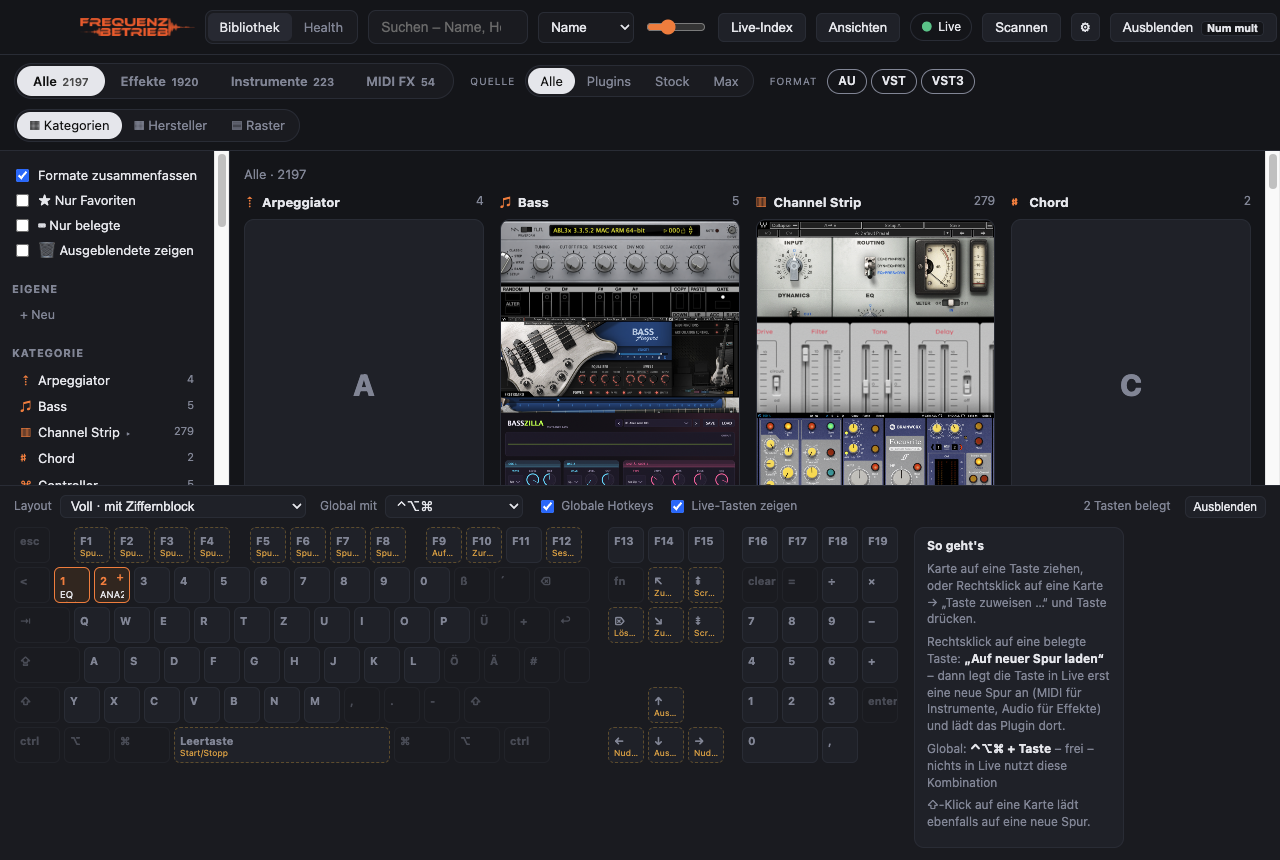
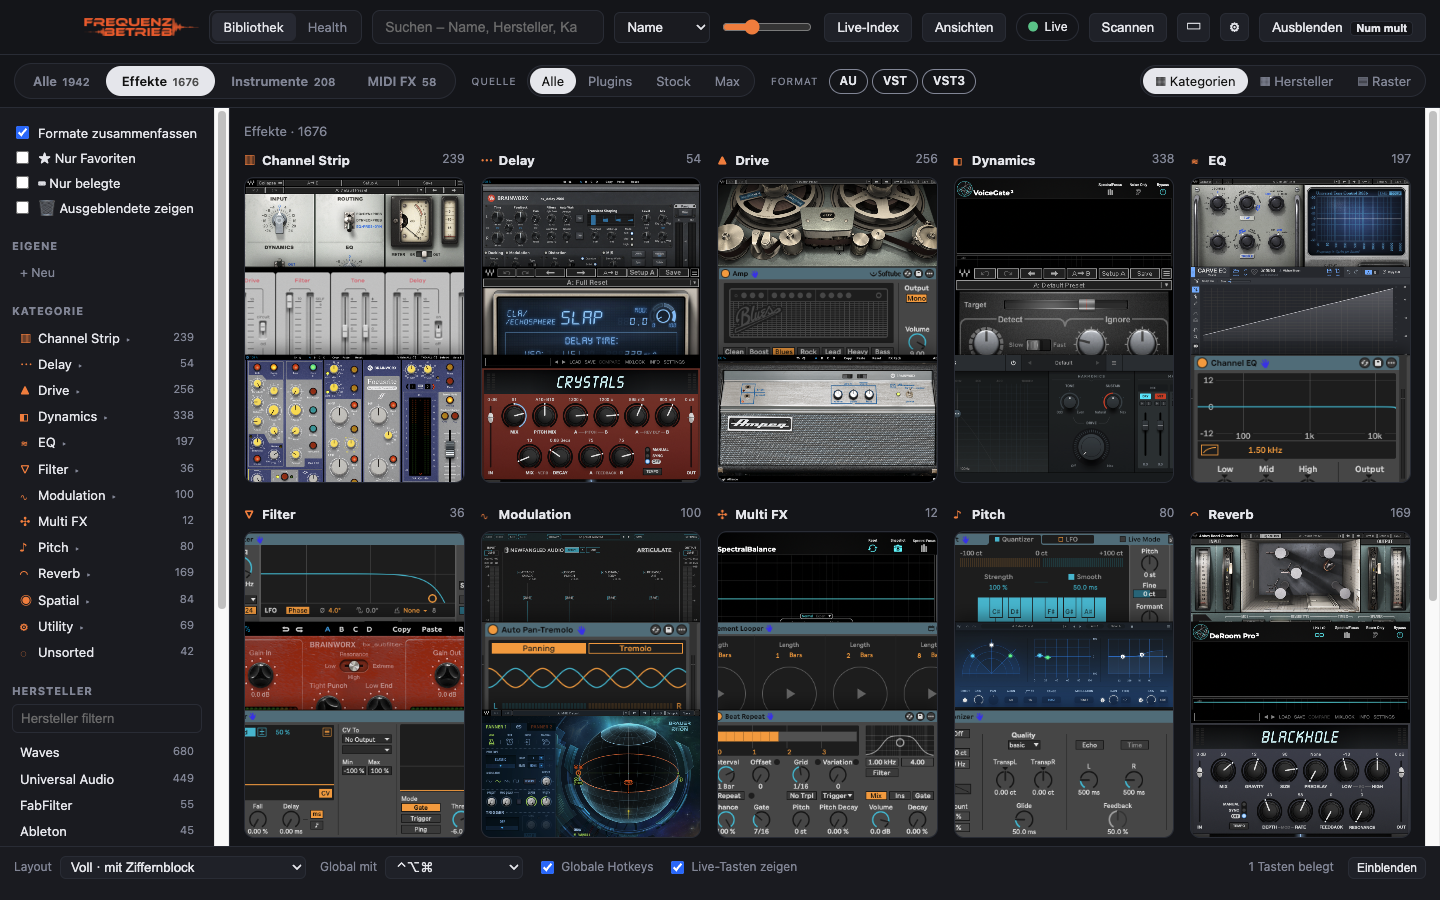
Version 0.2.9: Herstellernamen zusammenführen, neuer Screenshot, WordPress-Beitrag
- Schreibweisen desselben Herstellers zusammengeführt ("IK Multimedia" = "Ikmultimedia",
  "Uaudio" → "Universal Audio", "WavesAudio" → "Waves"); Formate eines Plugins landen
  dadurch auf einer Kachel
- neuer Screenshot (Effekte, Kategorien-Ansicht)
- Beitrag für frequenzbetrieb.de auf Deutsch und Englisch (docs/wordpress)

diff --git a/docs/wordpress/beitrag-de.html b/docs/wordpress/beitrag-de.html
@@ -1,0 +1,80 @@
+<!-- Titel: FREQUENZBETRIEB PLUGIN ORGANIZER – Schluss mit der Plugin-Suche -->
+<!-- Kategorie-Vorschlag: Software / Tools · Tags: Ableton Live, Plugins, VST, Open Source, Musikproduktion -->
+
+<p><strong>Kennst du das? Mitten im Track, die Idee ist da – und du scrollst durch eine Liste mit 2.000 Plugin-Namen, von denen du die Hälfte nicht mehr zuordnen kannst. Genau dafür haben wir den FREQUENZBETRIEB Plugin Organizer gebaut: ein kostenloses Tool, das alle deine Plugins mit echtem Bild zeigt und sie per Klick oder Taste direkt in Ableton Live lädt.</strong></p>
+
+<figure class="wp-block-image size-large"><img src="https://raw.githubusercontent.com/Frequenzbetrieb/plugin-organizer/main/docs/screenshot.png" alt="Der FREQUENZBETRIEB Plugin Organizer mit Kategorien, Vorschaubildern und Tasten-Mapping"/></figure>
+
+<h2>Was der Plugin Organizer macht</h2>
+
+<p>Der Plugin Organizer läuft neben Live, nicht in Live. Er ist kein Plugin, sitzt also nicht im Signalweg und kostet keine CPU in deinem Projekt. Beim ersten Start sucht er alles zusammen, was auf deinem Mac liegt: AU, VST, VST3, AAX und CLAP, dazu Lives eigene Stock-Devices und deine Max-for-Live-Devices aus User Library und Packs.</p>
+
+<h3>Du siehst, was du lädst</h3>
+
+<p>Statt Namen bekommst du Bilder. Der Organizer öffnet jedes Plugin unsichtbar im Hintergrund und fotografiert seine Oberfläche. Für Stock- und Max-Devices geht er direkt in Live: laden, Foto, wieder rückgängig machen. Dein Set bleibt dabei sauber. Am Ende hat fast jedes Plugin eine Kachel, an der du es auf einen Blick erkennst.</p>
+
+<h3>Ordnung, ohne dass du aufräumen musst</h3>
+
+<ul>
+<li><strong>Automatische Kategorien</strong> mit Unterkategorien: Dynamics → Compressor, Limiter, De-Esser, Gate … EQ, Reverb, Delay, Drive, Synth, Drums und so weiter.</li>
+<li><strong>Effekte, Instrumente, MIDI FX</strong> sauber getrennt – und wo die Automatik danebenliegt, korrigierst du es mit einem Rechtsklick.</li>
+<li><strong>Hersteller-Ansicht</strong>, Favoriten und <strong>eigene Sammlungen</strong> mit Farben – zum Beispiel „Mastering“, „Schranz-Leads“ oder „Live-Set“.</li>
+<li><strong>Doppelte Formate</strong> (AU, VST, VST3 vom selben Plugin) werden zu einer Kachel zusammengefasst.</li>
+</ul>
+
+<h3>Ein Klick, und es liegt auf der Spur</h3>
+
+<p>Klick auf eine Kachel – und das Plugin landet auf der ausgewählten Spur in Ableton Live. Mit gedrückter Umschalttaste legt der Organizer vorher eine neue Spur an: MIDI für Instrumente, Audio für Effekte. Er sucht dabei genau das richtige Gerät heraus, auch wenn Live das Plugin unter einem anderen Namen führt.</p>
+
+<h3>Deine Plugins auf Tasten</h3>
+
+<p>Zieh ein Plugin auf eine Taste der Bildschirmtastatur – mit F-Tasten, Ziffernblock und allem, was dazugehört. Danach reicht in Live ⌃⌥⌘ plus Taste, und das Plugin ist da. Wer will, schaltet die Tasten so, dass sie ganz ohne Zusatztaste funktionieren, solange Live vorne ist. Tasten, die Live selbst belegt, sind markiert, damit du nichts Wichtiges überschreibst. Und pro Taste stellst du ein, ob das Plugin auf die aktuelle oder auf eine neue Spur soll.</p>
+
+<h3>Drei Ansichten für jeden Workflow</h3>
+
+<ul>
+<li><strong>Vollbild</strong> – die ganze Bibliothek mit allen Filtern.</li>
+<li><strong>Sidecar</strong> – eine schmale Leiste am Bildschirmrand direkt neben Live, Kategorien als Bildstreifen.</li>
+<li><strong>Mini</strong> – ein kleines Suchfenster: tippen, Pfeiltaste, Enter, fertig.</li>
+</ul>
+
+<p>Eine frei wählbare Taste blendet den Organizer aus und holt ihn wieder nach vorne. Auf Wunsch bleibt er immer im Vordergrund oder verschwindet automatisch, sobald ein Plugin geladen ist.</p>
+
+<h3>Library Health: Was frisst deinen Speicher?</h3>
+
+<p>Der Health-Bereich zeigt dir, wie viel Platz deine Plugins belegen und wie viel du zurückholen kannst: Plugins, die nur noch mit Rosetta laufen, VST2-Kopien von Plugins, die du längst als VST3 hast, AAX-Dateien ohne Pro Tools und Plugins, die du nie benutzt. Er liest sogar deine Live-Sets und sagt dir, welche Plugins darin auf diesem Rechner fehlen.</p>
+
+<h2>Download</h2>
+
+<p><strong>Plugin Organizer für macOS (Apple Silicon &amp; Intel):</strong><br>
+<a href="https://github.com/Frequenzbetrieb/plugin-organizer/releases/latest/download/Frequenzbetrieb-Plugin-Organizer-macOS-universal.dmg">→ Jetzt herunterladen (DMG)</a></p>
+
+<p>Die Windows-Version ist in Arbeit und folgt später.</p>
+
+<h3>Systemanforderungen</h3>
+
+<ul>
+<li>macOS 13 Ventura oder neuer, Apple Silicon oder Intel</li>
+<li>Ableton Live 12 zum Laden der Plugins (Bibliothek, Sortierung und Health funktionieren auch ohne Live)</li>
+</ul>
+
+<h3>Installation</h3>
+
+<ol>
+<li>DMG öffnen und den Plugin Organizer in den Ordner „Programme“ ziehen.</li>
+<li>Die App ist (noch) nicht bei Apple signiert. Öffne deshalb einmalig das Terminal und gib ein:<br>
+<code>xattr -dr com.apple.quarantine "/Applications/Frequenzbetrieb Plugin Organizer.app"</code></li>
+<li>App starten. macOS fragt nach <strong>Bedienungshilfen</strong> (zum Laden in Live) und – nur für Fotos direkt aus Live – nach <strong>Bildschirmaufnahme</strong>. Beides in den Systemeinstellungen unter „Datenschutz &amp; Sicherheit“ erlauben.</li>
+<li>Oben auf „Ansichten“ klicken – der Organizer fotografiert jetzt deine Plugins. Für Stock- und Max-Devices: Live mit leerem Set öffnen und „Live-Index“ starten.</li>
+</ol>
+
+<h2>Kostenlos und Open Source</h2>
+
+<p>Der Plugin Organizer kostet nichts und bleibt kostenlos. Der komplette Quellcode liegt offen auf GitHub unter der AGPL-3.0 – du kannst reinschauen, mitbauen, Fehler melden oder Ideen einbringen:<br>
+<a href="https://github.com/Frequenzbetrieb/plugin-organizer">github.com/Frequenzbetrieb/plugin-organizer</a></p>
+
+<p>Wenn dir das Tool Zeit spart und du unsere Vereinsarbeit unterstützen willst, freuen wir uns über eine <a href="https://www.frequenzbetrieb.de/spenden/">Spende</a>. Jeder Euro fließt in Projekte wie dieses.</p>
+
+<p><em>Ableton und Ableton Live sind Marken der Ableton AG, VST ist eine eingetragene Marke der Steinberg Media Technologies GmbH. Der Plugin Organizer ist ein unabhängiges Projekt und steht in keiner Verbindung zu Ableton oder Steinberg.</em></p>
+
+<p><em>Hinweis: Dieser Beitrag und die Software wurden mit Unterstützung von KI erstellt (Kennzeichnung gemäß EU AI Act, Art. 50).</em></p>

diff --git a/docs/wordpress/beitrag-en.html b/docs/wordpress/beitrag-en.html
@@ -1,0 +1,82 @@
+<!-- Title: FREQUENZBETRIEB PLUGIN ORGANIZER – No more hunting for plugins -->
+<!-- Suggested category: Software / Tools · Tags: Ableton Live, Plugins, VST, Open Source, Music Production -->
+
+<p><strong>Sound familiar? You're deep in a track, the idea is right there – and you're scrolling through 2,000 plugin names, half of which you can't place anymore. That's exactly why we built the FREQUENZBETRIEB Plugin Organizer: a free tool that shows all your plugins with a real picture and loads them straight into Ableton Live with a click or a key.</strong></p>
+
+<figure class="wp-block-image size-large"><img src="https://raw.githubusercontent.com/Frequenzbetrieb/plugin-organizer/main/docs/screenshot.png" alt="The FREQUENZBETRIEB Plugin Organizer with categories, preview images and key mapping"/></figure>
+
+<h2>What the Plugin Organizer does</h2>
+
+<p>The Plugin Organizer runs next to Live, not inside it. It isn't a plugin, so it never sits in your signal path and doesn't cost your project any CPU. On first launch it gathers everything on your Mac: AU, VST, VST3, AAX and CLAP, plus Live's own stock devices and your Max for Live devices from the User Library and Packs.</p>
+
+<h3>See what you load</h3>
+
+<p>Instead of names you get pictures. The Organizer opens every plugin invisibly in the background and takes a snapshot of its interface. For stock and Max devices it goes straight into Live: load, snapshot, undo. Your set stays clean. In the end almost every plugin has a tile you recognise at a glance.</p>
+
+<h3>Order without tidying up</h3>
+
+<ul>
+<li><strong>Automatic categories</strong> with subcategories: Dynamics → Compressor, Limiter, De-esser, Gate … EQ, Reverb, Delay, Drive, Synth, Drums and more.</li>
+<li><strong>Effects, instruments and MIDI FX</strong> neatly separated – and where the automatic sorting gets it wrong, one right-click fixes it.</li>
+<li><strong>Vendor view</strong>, favourites and <strong>your own collections</strong> with colours – say "Mastering", "Schranz Leads" or "Live Set".</li>
+<li><strong>Duplicate formats</strong> (AU, VST, VST3 of the same plugin) are merged into one tile.</li>
+</ul>
+
+<h3>One click and it's on the track</h3>
+
+<p>Click a tile – and the plugin lands on the selected track in Ableton Live. Hold Shift and the Organizer creates a new track first: MIDI for instruments, audio for effects. It picks exactly the right device, even when Live lists the plugin under a different name.</p>
+
+<h3>Your plugins on keys</h3>
+
+<p>Drag a plugin onto a key of the on-screen keyboard – F-keys, numpad and all. From then on ⌃⌥⌘ plus that key in Live brings it up. If you like, switch the keys to work without any modifier while Live is in front. Keys that Live uses itself are marked, so you don't overwrite anything important. And for each key you decide whether the plugin goes onto the current track or a new one.</p>
+
+<h3>Three views for every workflow</h3>
+
+<ul>
+<li><strong>Full window</strong> – the whole library with every filter.</li>
+<li><strong>Sidecar</strong> – a slim strip at the edge of the screen right next to Live, categories as picture rows.</li>
+<li><strong>Mini</strong> – a small search window: type, arrow key, Enter, done.</li>
+</ul>
+
+<p>A key of your choice hides the Organizer and brings it back. If you want, it stays on top all the time or disappears as soon as a plugin is loaded.</p>
+
+<h3>Library Health: what's eating your disk?</h3>
+
+<p>The Health view shows how much space your plugins take and how much you can get back: plugins that only run under Rosetta, VST2 copies of plugins you already have as VST3, AAX files without Pro Tools, and plugins you never use. It even reads your Live sets and tells you which plugins in them are missing on this machine.</p>
+
+<h2>Download</h2>
+
+<p><strong>Plugin Organizer for macOS (Apple Silicon &amp; Intel):</strong><br>
+<a href="https://github.com/Frequenzbetrieb/plugin-organizer/releases/latest/download/Frequenzbetrieb-Plugin-Organizer-macOS-universal.dmg">→ Download now (DMG)</a></p>
+
+<p>The Windows version is in the works and will follow later.</p>
+
+<h3>System requirements</h3>
+
+<ul>
+<li>macOS 13 Ventura or later, Apple Silicon or Intel</li>
+<li>Ableton Live 12 for loading plugins (library, sorting and Health also work without Live)</li>
+</ul>
+
+<h3>Installation</h3>
+
+<ol>
+<li>Open the DMG and drag the Plugin Organizer into your Applications folder.</li>
+<li>The app isn't signed by Apple (yet). So open Terminal once and enter:<br>
+<code>xattr -dr com.apple.quarantine "/Applications/Frequenzbetrieb Plugin Organizer.app"</code></li>
+<li>Launch the app. macOS asks for <strong>Accessibility</strong> (to load into Live) and – only for snapshots taken inside Live – <strong>Screen Recording</strong>. Allow both in System Settings under "Privacy &amp; Security".</li>
+<li>Click "Ansichten" at the top – the Organizer now photographs your plugins. For stock and Max devices: open Live with an empty set and start "Live-Index".</li>
+</ol>
+
+<p><em>Note: the app's interface is currently in German.</em></p>
+
+<h2>Free and open source</h2>
+
+<p>The Plugin Organizer costs nothing and will stay free. The full source code is on GitHub under the AGPL-3.0 – take a look, contribute, report bugs or bring in ideas:<br>
+<a href="https://github.com/Frequenzbetrieb/plugin-organizer">github.com/Frequenzbetrieb/plugin-organizer</a></p>
+
+<p>If the tool saves you time and you'd like to support our association, we'd be glad about a <a href="https://www.frequenzbetrieb.de/spenden/">donation</a>. Every euro goes into projects like this one.</p>
+
+<p><em>Ableton and Ableton Live are trademarks of Ableton AG, VST is a registered trademark of Steinberg Media Technologies GmbH. The Plugin Organizer is an independent project and is not affiliated with Ableton or Steinberg.</em></p>
+
+<p><em>Note: this article and the software were created with the help of AI (disclosure under the EU AI Act, Art. 50).</em></p>

diff --git a/src/main.js b/src/main.js
@@ -248,6 +248,12 @@ function createWindow() {
     setTimeout(async () => {
       await win.webContents.executeJavaScript(process.env.PO_VIEW === 'health' ? "document.querySelector('#tabHealth').click()" : "document.querySelector('main').scrollTop = 0");
       if (process.env.PO_VIEW === 'health') await new Promise((r) => setTimeout(r, 12000));
+      if (process.env.PO_SHOWCASE) {
+        // Screenshot for the website: effects tab, category overview, from the top.
+        await win.webContents.executeJavaScript(`(() => { document.querySelectorAll('#typeTabs button')[1].click();
+          setTimeout(() => { document.querySelectorAll('#viewTabs button')[0].click(); if (${process.env.PO_NOKB ? 'true' : 'false'} && !document.querySelector('.keyboard-panel').classList.contains('collapsed')) document.querySelector('#toggleKb').click(); document.querySelector('main').scrollTop = 0; }, 200); })()`);
+        await new Promise((r) => setTimeout(r, 2500));
+      }
       if (process.env.PO_MODE) {
         await win.webContents.executeJavaScript(`setMode('${process.env.PO_MODE}')`);
         await new Promise((r) => setTimeout(r, 1500));
@@ -442,7 +448,7 @@ app.whenReady().then(() => {
   if (process.env.PO_TEST_LOAD) setTimeout(() => loadById(process.env.PO_TEST_LOAD, { newTrack: true }).then((r) => logError('test-load', JSON.stringify(r))), 5000);
   // Older caches lack AU component ids, which screenshots need.
   // Rescan once when the scanner learned something new (AU ids, types, MIDI Tools, …).
-  const SCANNER_VERSION = 5;
+  const SCANNER_VERSION = 7;
   const stale = library.some((p) => (p.format === 'AU' && !p.au) || !p.type) || settings.scannerVersion !== SCANNER_VERSION;
   if (stale) { settings.scannerVersion = SCANNER_VERSION; writeJson(settingsFile(), settings); }
   if (!library.length || stale) rescan().then(() => win.webContents.send('library', library));

diff --git a/src/scanner.js b/src/scanner.js
@@ -157,8 +157,15 @@ async function scan(onProgress) {
 // Bundle IDs sometimes yield generic words instead of a maker ("com.….vst3", "Synth", "FX2x8", "Uaudio").
 const GENERIC_VENDOR = /^(vst3?|synth|fx(\d+x\d+)?|mfx|audiounit|au|aax|clap|plugins?|component|instrument|effects?|unknown)$/i;
 
+// Makers whose bundle IDs use a short name ("com.uaudio…") instead of the real one.
+const VENDOR_ALIAS = { uaudio: 'Universal Audio', 'native-instruments': 'Native Instruments', nativeinstruments: 'Native Instruments', wavesaudio: 'Waves' };
+
 // Unifies vendor spelling and shares the best-known category across formats.
 function normalize(list) {
+  for (const p of list) {
+    const alias = VENDOR_ALIAS[p.vendor.toLowerCase()];
+    if (alias) p.vendor = alias;
+  }
   // A plugin known under a real maker in one format gets that maker in all formats.
   const realVendor = new Map();
   for (const p of list) {
@@ -169,7 +176,7 @@ function normalize(list) {
   }
   const vendors = new Map();
   for (const p of list) {
-    const k = p.vendor.toLowerCase();
+    const k = p.vendor.toLowerCase().replace(/[^a-z0-9]/g, ''); // "IK Multimedia" = "Ikmultimedia" = "IK-Multimedia"
     const cur = vendors.get(k);
     const caps = (s) => (s.match(/[A-Z]/g) || []).length;
     if (!cur || caps(p.vendor) > caps(cur)) vendors.set(k, p.vendor);
@@ -178,7 +185,7 @@ function normalize(list) {
   const score = (p) => (p.category === 'Unsorted' ? 0 : 1) + (p.format === 'AU' || p.format === 'VST3' ? 2 : 0);
   const best = new Map();
   for (const p of list) {
-    p.vendor = vendors.get(p.vendor.toLowerCase());
+    p.vendor = vendors.get(p.vendor.toLowerCase().replace(/[^a-z0-9]/g, ''));
     const k = p.name.toLowerCase();
     if (!best.has(k) || score(p) > score(best.get(k))) best.set(k, p);
   }
